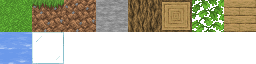
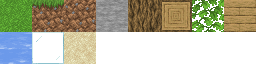
chore: various

Changed region(s): [[0.25, 0.5, 0.375, 1.0]]

diff --git a/WorldGeneration/ChunkManager.cs b/WorldGeneration/ChunkManager.cs
@@ -41,7 +41,6 @@ public partial class ChunkManager : Node3D
         foreach (var chunkPosition in chunksToStopGenerating)
         {
             chunksToGenerate.Remove(chunkPosition);
-            GD.Print("Stopping generation: ", chunkPosition);
         }
 
         // If an active chunk is no longer in range set it to stale
@@ -60,7 +59,6 @@ public partial class ChunkManager : Node3D
             staleChunks.Add(chunkPosition);
             var chunk = chunks[chunkPosition];
             chunk.Visible = false;
-            GD.Print("Making stale: ", chunkPosition);
         }
 
         // Generate or restore chunks in range
@@ -72,7 +70,6 @@ public partial class ChunkManager : Node3D
                activeChunks.Add(chunkPosition);
                 var chunk = chunks[chunkPosition];
                 chunk.Visible = true;
-                GD.Print("Reviving: ", chunkPosition);
             } 
             else if (!activeChunks.Contains(chunkPosition) && !chunksToGenerate.Contains(chunkPosition))
             {
@@ -96,8 +93,6 @@ public partial class ChunkManager : Node3D
                 AddChild(chunk);
                 chunks.Add(chunkPosition, chunk);
                 activeChunks.Add(chunkPosition);
-
-                GD.Print("Generating: ", chunkPosition);
 
                 generationTasks[i] = Task.Run(() => {
                     chunk.Generate();

diff --git a/Configuration.cs b/Configuration.cs
@@ -6,10 +6,10 @@ public partial class Configuration : Node
 	public static readonly Vector3I CHUNK_DIMENSION = new(32, 512, 32);
 	public static readonly Vector2I TEXTURE_ATLAS_SIZE = new(8, 2);
 	public static readonly float MOUSE_SENSITIVITY = 0.3f;
-	public static readonly float MOVEMENT_SPEED = 25;
-	public static readonly float GRAVITY = 20;
-	public static readonly float JUMP_VELOCITY = 6.25f;
+	public static readonly float MOVEMENT_SPEED = 5;
+	public static readonly float GRAVITY = 30;
+	public static readonly float JUMP_VELOCITY = 7.5f;
 	public static readonly float CHUNK_UNLOAD_TIME = 1;
-	public static readonly bool FLYING_ENABLED = true;
+	public static readonly bool FLYING_ENABLED = false;
 	public static readonly int CHUNK_LOAD_RADIUS = 8;
 }

diff --git a/WorldGeneration/Chunk.cs b/WorldGeneration/Chunk.cs
@@ -14,7 +14,7 @@ public partial class Chunk : StaticBody3D
         public static readonly int[] BACK = new int[] { 2, 0, 1, 3 };
     }
 
-    private static readonly Vector3[] vertices = new Vector3[]
+    private static readonly Vector3I[] vertices = new Vector3I[]
 	{
 		new(0, 0, 0), // 0
 		new(1, 0, 0), // 1
@@ -83,7 +83,11 @@ public partial class Chunk : StaticBody3D
 					{
 						blockType = BlockTypes.Stone;
 					}
-					else if (globalPosition.Y < height)
+                    if (height <= 68 && globalPosition.Y <= height)
+                    {
+                        blockType = BlockTypes.Sand;
+                    }
+                    else if (globalPosition.Y < height)
 					{
 						blockType = BlockTypes.Dirt;
                     }

diff --git a/WorldGeneration/BlockTypes.cs b/WorldGeneration/BlockTypes.cs
@@ -60,4 +60,14 @@ public static class BlockTypes
         TextureAtlasOffsetFront = new(0, 1),
         TextureAtlasOffsetBack = new(0, 1),
     };
+
+    public static readonly BlockType Sand = new BlockType
+    {
+        TextureAtlasOffsetTop = new(2, 1),
+        TextureAtlasOffsetBottom = new(2, 1),
+        TextureAtlasOffsetLeft = new(2, 1),
+        TextureAtlasOffsetRight = new(2, 1),
+        TextureAtlasOffsetFront = new(2, 1),
+        TextureAtlasOffsetBack = new(2, 1),
+    };
 }

diff --git a/Player.cs b/Player.cs
@@ -16,6 +16,11 @@ public partial class Player : CharacterBody3D
 
         Input.MouseMode = Input.MouseModeEnum.Captured;
 	}
+    
+    public override void _Process(double delta)
+    {
+        GD.Print(Engine.GetFramesPerSecond());
+    }
 
 	public override void _Input(InputEvent @event)
     {
